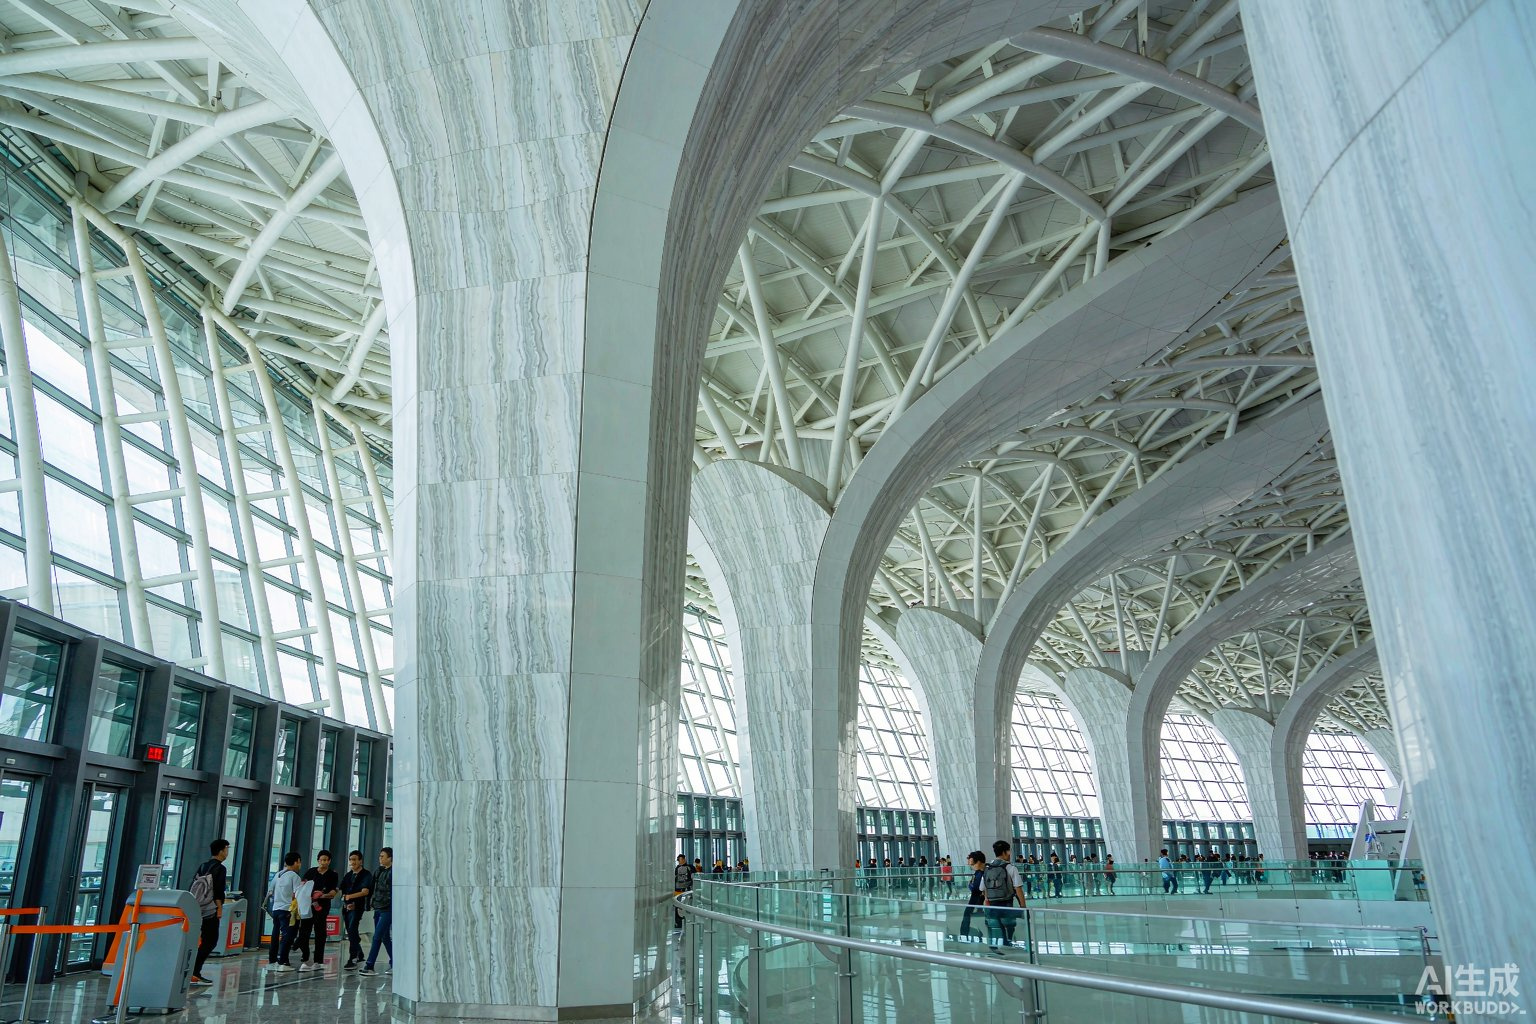
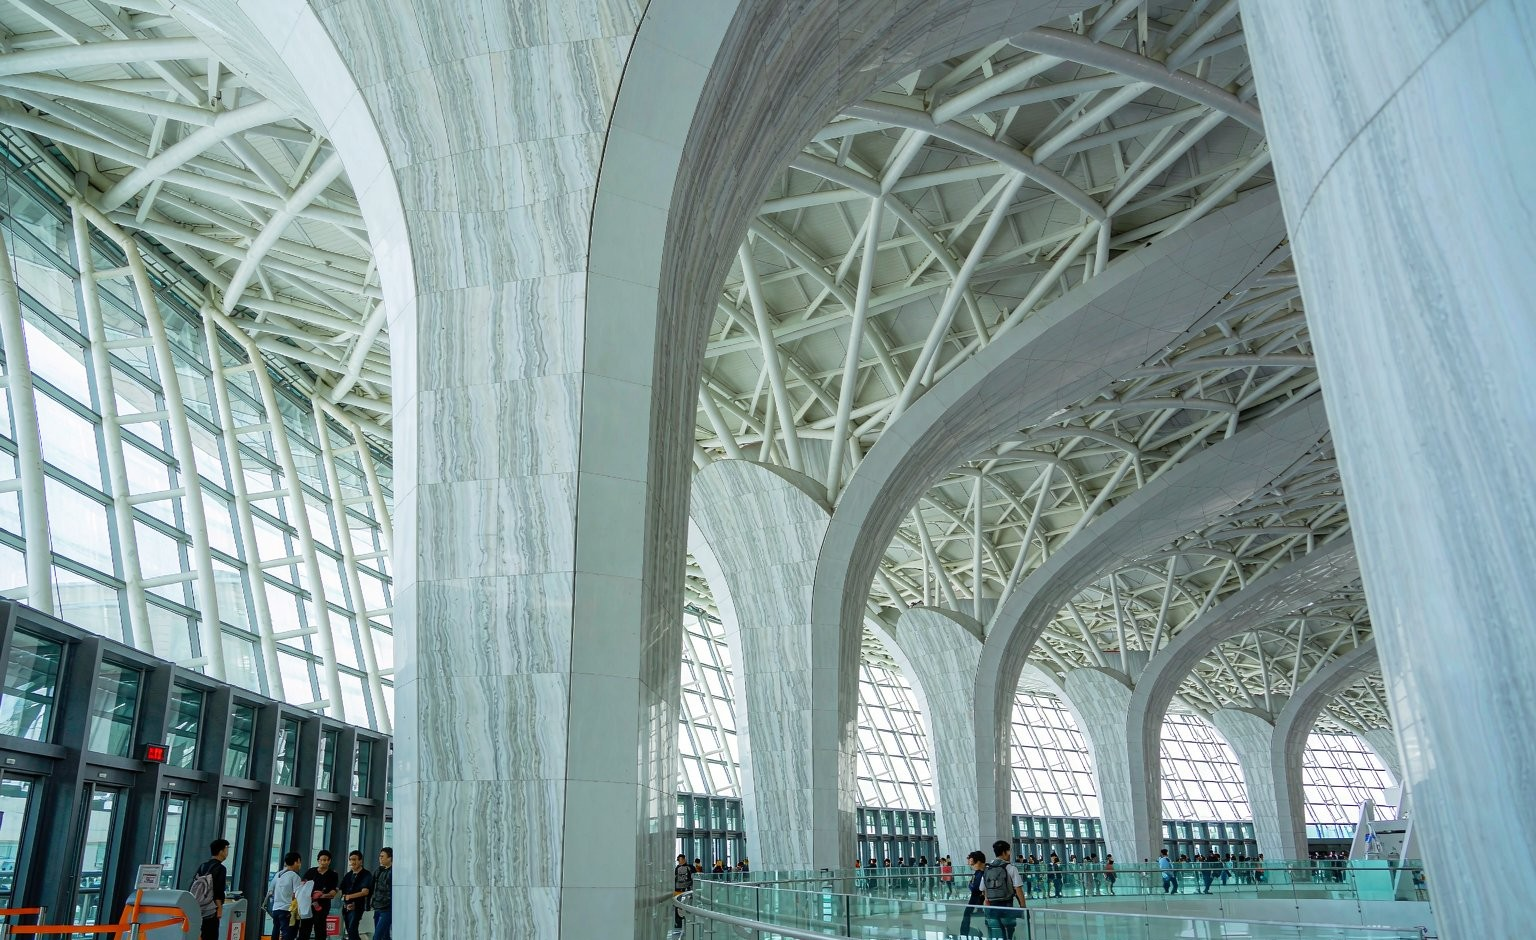
fix: 項目概況大圖點擊放大+白底印章(4頁中英)；概況圖底部AI生成水印裁除

diff --git a/en/projects/airport.html b/en/projects/airport.html
@@ -1012,6 +1012,7 @@
 
 
 
+
 <!-- HSST Seal Lightbox (click-to-enlarge with company seal bottom-right) -->
 <style>
 #cs2lb{position:fixed;inset:0;z-index:12000;display:none;align-items:center;justify-content:center;background:rgba(10,10,14,.93);}
@@ -1026,7 +1027,7 @@
 .cs2lb-prev{left:16px;}
 .cs2lb-next{right:16px;}
 #cs2lbCount{position:absolute;left:50%;bottom:-34px;transform:translateX(-50%);color:rgba(255,255,255,.75);font-size:.85rem;letter-spacing:.05em;}
-.cs2-gal,.cs2-proc .ph,.cs2-inst .ph,.cs2-mat-card .ph,.cs2-rel .ph,.project-hero{cursor:zoom-in;}
+.cs2-overview-media,.cs2-gal,.cs2-proc .ph,.cs2-inst .ph,.cs2-mat-card .ph,.cs2-rel .ph,.project-hero{cursor:zoom-in;}
 @media (max-width:768px){
   #cs2lbSeal{width:64px;right:8px;bottom:8px;padding:5px;border-radius:6px;}
   .cs2lb-x{top:10px;right:10px;width:42px;height:42px;}
@@ -1049,7 +1050,7 @@
   var list=[],idx=0;
   function contentImgs(){
     return Array.prototype.slice.call(document.querySelectorAll(
-      '.project-hero img,.cs2-gal img,.cs2-proc .ph img,.cs2-inst .ph img,.cs2-mat-card .ph img,.cs2-rel .ph img'
+      '.project-hero img,.cs2-overview-media img,.cs2-gal img,.cs2-proc .ph img,.cs2-inst .ph img,.cs2-mat-card .ph img,.cs2-rel .ph img'
     )).filter(function(i){return (i.offsetWidth||0)>=80;});
   }
   function bigSrc(el){
@@ -1073,6 +1074,14 @@
     var t=e.target;
     if(!(t instanceof Element))return;
     if(t.closest('#cs2lb'))return;
+    /* 項目概況圖：.cs2-overview-media（含覆蓋的 .tag 標籤）整個區域可點 */
+    var ovm=t.closest('.cs2-overview-media');
+    if(ovm){
+      e.preventDefault();e.stopPropagation();
+      var oim=ovm.querySelector('img');
+      if(oim){openEl(oim);}
+      return;
+    }
     /* hero 大图：被全屏渐变遮罩盖住，点击命中的是遮罩而非 img —— 整个 hero 区域可点 */
     var hero=t.closest('.project-hero');
     if(hero){

diff --git a/en/projects/hotel.html b/en/projects/hotel.html
@@ -1046,6 +1046,7 @@
 
 
 
+
 <!-- HSST Seal Lightbox (click-to-enlarge with company seal bottom-right) -->
 <style>
 #cs2lb{position:fixed;inset:0;z-index:12000;display:none;align-items:center;justify-content:center;background:rgba(10,10,14,.93);}
@@ -1060,7 +1061,7 @@
 .cs2lb-prev{left:16px;}
 .cs2lb-next{right:16px;}
 #cs2lbCount{position:absolute;left:50%;bottom:-34px;transform:translateX(-50%);color:rgba(255,255,255,.75);font-size:.85rem;letter-spacing:.05em;}
-.cs2-gal,.cs2-proc .ph,.cs2-inst .ph,.cs2-mat-card .ph,.cs2-rel .ph,.project-hero{cursor:zoom-in;}
+.cs2-overview-media,.cs2-gal,.cs2-proc .ph,.cs2-inst .ph,.cs2-mat-card .ph,.cs2-rel .ph,.project-hero{cursor:zoom-in;}
 @media (max-width:768px){
   #cs2lbSeal{width:64px;right:8px;bottom:8px;padding:5px;border-radius:6px;}
   .cs2lb-x{top:10px;right:10px;width:42px;height:42px;}
@@ -1083,7 +1084,7 @@
   var list=[],idx=0;
   function contentImgs(){
     return Array.prototype.slice.call(document.querySelectorAll(
-      '.project-hero img,.cs2-gal img,.cs2-proc .ph img,.cs2-inst .ph img,.cs2-mat-card .ph img,.cs2-rel .ph img'
+      '.project-hero img,.cs2-overview-media img,.cs2-gal img,.cs2-proc .ph img,.cs2-inst .ph img,.cs2-mat-card .ph img,.cs2-rel .ph img'
     )).filter(function(i){return (i.offsetWidth||0)>=80;});
   }
   function bigSrc(el){
@@ -1107,6 +1108,14 @@
     var t=e.target;
     if(!(t instanceof Element))return;
     if(t.closest('#cs2lb'))return;
+    /* 項目概況圖：.cs2-overview-media（含覆蓋的 .tag 標籤）整個區域可點 */
+    var ovm=t.closest('.cs2-overview-media');
+    if(ovm){
+      e.preventDefault();e.stopPropagation();
+      var oim=ovm.querySelector('img');
+      if(oim){openEl(oim);}
+      return;
+    }
     /* hero 大图：被全屏渐变遮罩盖住，点击命中的是遮罩而非 img —— 整个 hero 区域可点 */
     var hero=t.closest('.project-hero');
     if(hero){

diff --git a/projects/airport.html b/projects/airport.html
@@ -1044,6 +1044,7 @@
 
 
 
+
 <!-- HSST Seal Lightbox (click-to-enlarge with company seal bottom-right) -->
 <style>
 #cs2lb{position:fixed;inset:0;z-index:12000;display:none;align-items:center;justify-content:center;background:rgba(10,10,14,.93);}
@@ -1058,7 +1059,7 @@
 .cs2lb-prev{left:16px;}
 .cs2lb-next{right:16px;}
 #cs2lbCount{position:absolute;left:50%;bottom:-34px;transform:translateX(-50%);color:rgba(255,255,255,.75);font-size:.85rem;letter-spacing:.05em;}
-.cs2-gal,.cs2-proc .ph,.cs2-inst .ph,.cs2-mat-card .ph,.cs2-rel .ph,.project-hero{cursor:zoom-in;}
+.cs2-overview-media,.cs2-gal,.cs2-proc .ph,.cs2-inst .ph,.cs2-mat-card .ph,.cs2-rel .ph,.project-hero{cursor:zoom-in;}
 @media (max-width:768px){
   #cs2lbSeal{width:64px;right:8px;bottom:8px;padding:5px;border-radius:6px;}
   .cs2lb-x{top:10px;right:10px;width:42px;height:42px;}
@@ -1081,7 +1082,7 @@
   var list=[],idx=0;
   function contentImgs(){
     return Array.prototype.slice.call(document.querySelectorAll(
-      '.project-hero img,.cs2-gal img,.cs2-proc .ph img,.cs2-inst .ph img,.cs2-mat-card .ph img,.cs2-rel .ph img'
+      '.project-hero img,.cs2-overview-media img,.cs2-gal img,.cs2-proc .ph img,.cs2-inst .ph img,.cs2-mat-card .ph img,.cs2-rel .ph img'
     )).filter(function(i){return (i.offsetWidth||0)>=80;});
   }
   function bigSrc(el){
@@ -1105,6 +1106,14 @@
     var t=e.target;
     if(!(t instanceof Element))return;
     if(t.closest('#cs2lb'))return;
+    /* 項目概況圖：.cs2-overview-media（含覆蓋的 .tag 標籤）整個區域可點 */
+    var ovm=t.closest('.cs2-overview-media');
+    if(ovm){
+      e.preventDefault();e.stopPropagation();
+      var oim=ovm.querySelector('img');
+      if(oim){openEl(oim);}
+      return;
+    }
     /* hero 大图：被全屏渐变遮罩盖住，点击命中的是遮罩而非 img —— 整个 hero 区域可点 */
     var hero=t.closest('.project-hero');
     if(hero){

diff --git a/projects/hotel.html b/projects/hotel.html
@@ -1083,6 +1083,7 @@
 
 
 
+
 <!-- HSST Seal Lightbox (click-to-enlarge with company seal bottom-right) -->
 <style>
 #cs2lb{position:fixed;inset:0;z-index:12000;display:none;align-items:center;justify-content:center;background:rgba(10,10,14,.93);}
@@ -1097,7 +1098,7 @@
 .cs2lb-prev{left:16px;}
 .cs2lb-next{right:16px;}
 #cs2lbCount{position:absolute;left:50%;bottom:-34px;transform:translateX(-50%);color:rgba(255,255,255,.75);font-size:.85rem;letter-spacing:.05em;}
-.cs2-gal,.cs2-proc .ph,.cs2-inst .ph,.cs2-mat-card .ph,.cs2-rel .ph,.project-hero{cursor:zoom-in;}
+.cs2-overview-media,.cs2-gal,.cs2-proc .ph,.cs2-inst .ph,.cs2-mat-card .ph,.cs2-rel .ph,.project-hero{cursor:zoom-in;}
 @media (max-width:768px){
   #cs2lbSeal{width:64px;right:8px;bottom:8px;padding:5px;border-radius:6px;}
   .cs2lb-x{top:10px;right:10px;width:42px;height:42px;}
@@ -1120,7 +1121,7 @@
   var list=[],idx=0;
   function contentImgs(){
     return Array.prototype.slice.call(document.querySelectorAll(
-      '.project-hero img,.cs2-gal img,.cs2-proc .ph img,.cs2-inst .ph img,.cs2-mat-card .ph img,.cs2-rel .ph img'
+      '.project-hero img,.cs2-overview-media img,.cs2-gal img,.cs2-proc .ph img,.cs2-inst .ph img,.cs2-mat-card .ph img,.cs2-rel .ph img'
     )).filter(function(i){return (i.offsetWidth||0)>=80;});
   }
   function bigSrc(el){
@@ -1144,6 +1145,14 @@
     var t=e.target;
     if(!(t instanceof Element))return;
     if(t.closest('#cs2lb'))return;
+    /* 項目概況圖：.cs2-overview-media（含覆蓋的 .tag 標籤）整個區域可點 */
+    var ovm=t.closest('.cs2-overview-media');
+    if(ovm){
+      e.preventDefault();e.stopPropagation();
+      var oim=ovm.querySelector('img');
+      if(oim){openEl(oim);}
+      return;
+    }
     /* hero 大图：被全屏渐变遮罩盖住，点击命中的是遮罩而非 img —— 整个 hero 区域可点 */
     var hero=t.closest('.project-hero');
     if(hero){
